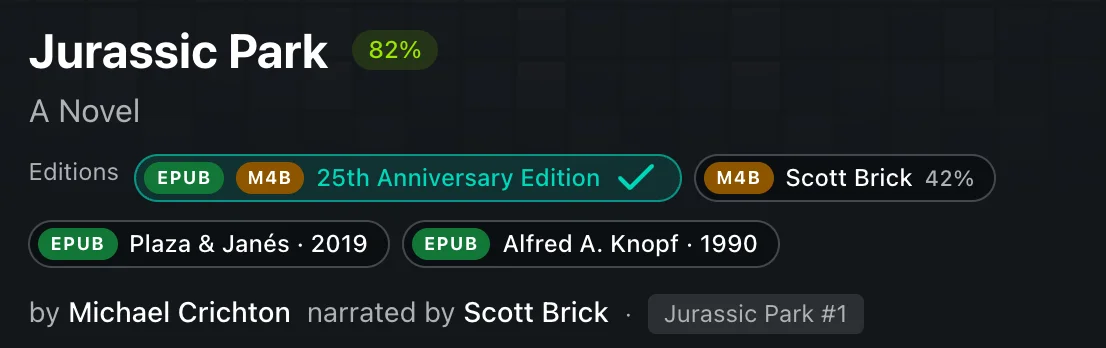
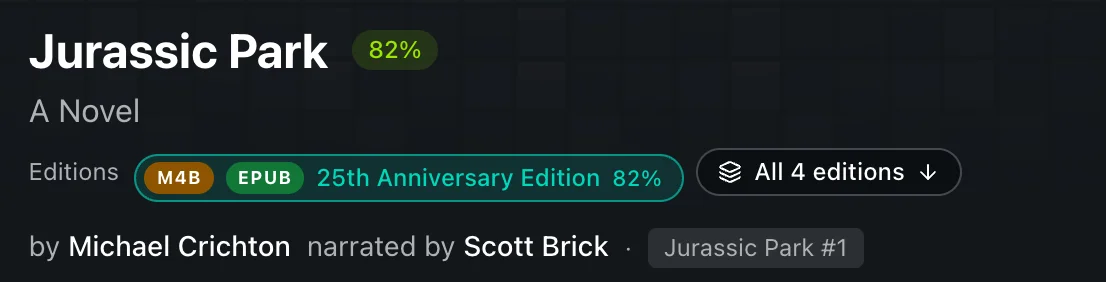
docs(book-editions): document suggested editions and the Editions tab
Describe the Suggested editions list in the Add edition sheet, with what each label means, and the
Editions tab table with its columns and row menu. Replace the strip text and screenshot with the
current-edition pill and its All editions button, and drop the search-only sheet screenshot.

Changed region(s): [[0.0307, 0.2837, 0.8915, 0.9645], [0.0307, 0.0851, 0.3996, 0.2553], [0.0307, 0.8227, 0.5533, 0.9362]]

diff --git a/src/content/docs/book-editions.md b/src/content/docs/book-editions.md
@@ -5,7 +5,7 @@ description: "Group the ebook, audiobook, translations and other printings of on
 
 You own *Jurassic Park* four times: the EPUB you read years ago, the Scott Brick audiobook in your audiobook library, the 1990 first printing and a Spanish translation. Without editions, the library shows four books, each with its own progress, and your statistics say you finished it twice when you read it and then listened to it.
 
-**Editions** group those records as one book. Each edition keeps its own page, files, metadata, cover and reading progress. Lists show the book once, the book page lists every edition under the title, and finished-book counts count the book once.
+**Editions** group those records as one book. Each edition keeps its own page, files, metadata, cover and reading progress. Lists show the book once, every edition's page lists all of them, and finished-book counts count the book once.
 
 :::note
 Editions need BookOrbit v3.10.0 or later. From v3.7.0, the same grouping is called **Link** (**Link with another book...**), and books linked there are editions after the update, with nothing to redo. The iPhone app shows editions once it is updated to a version that has them; an older app lists every edition as a book of its own.
@@ -23,18 +23,29 @@ An edition is a separate book record. A format is another file inside one record
 | The same edition in another file type, such as a MOBI beside the EPUB | Add the file to the book as a format |
 | Two records of the same edition that should become one | Merge them with **Merge with another book...** |
 
-A book's own files are listed in the **Formats** card on its page. Editions are listed under the title.
+A book's own files are listed in the **Formats** card on its page. Its editions are listed on the **Editions** tab further down.
 
 ---
 
 ## Group Editions
 
-<img src="/images/book-editions/group-as-editions-sheet.webp" alt="Editions of one book sheet with Japanese Gothic typed into Search all libraries, the audiobook from the Audiobooks library ticked, and the Group 2 editions button" class="img-lg img-bordered" />
+<img src="/images/book-editions/add-edition-suggestions.webp" alt="Editions of one book sheet for Japanese Gothic: under Suggested editions, the Natalie Naudus audiobook from the Audiobooks library is ticked and marked Other format and Same title and author, above the Group 2 editions button" class="img-lg img-bordered" />
 
 1. Open the page of one edition. It becomes the main edition.
-2. Open the **⋮** menu beside the reading buttons and choose **Add edition...**.
-3. Search all libraries by title or author, and tick the other editions.
+2. Open the **⋮** menu beside the reading buttons and choose **Add edition...**. On a book that already has editions, the **Add edition** button on its **Editions** tab does the same.
+3. Tick a book under **Suggested editions**, or search all libraries by title or author and tick it in the results.
 4. Click **Group 2 editions** (the count follows your choice).
+
+**Suggested editions** offers up to eight books from libraries you can edit that look like other editions of this one. Each is marked with what it is and why it matched:
+
+| Label | Meaning |
+|-------|---------|
+| **Other format** | The audiobook of an ebook, or the ebook of an audiobook. |
+| **Other edition** | Another ebook, or another audiobook, that differs in ISBN, Hardcover edition, narrator, publisher or year. |
+| **Same work on Hardcover or Open Library** | Both books match the same work on Hardcover or Open Library. |
+| **Same title and author** | Both books have the same title and share an author or narrator. |
+
+A book that matches both ways says **Same work, title and author**. Copies of the same edition are not suggested, and neither are pairs marked **Not editions** in [Duplicate Books](#find-editions-you-already-have).
 
 To group from a list, select the books, open **More actions** in the selection bar and choose **Group as editions...**. Select each book yourself: the action is not offered when the selection is every book matching a filter.
 
@@ -44,7 +55,7 @@ A few rules apply:
 - A group holds up to 10 editions, across any libraries.
 - Adding a book that already belongs to a group brings that whole group in, and its main edition stays the main one.
 
-To manage a group later, open any edition and use the **⋮** menu:
+To manage a group later, open any edition and use the **⋮** menu, or the **⋮** menu on a row of the [Editions tab](#compare-editions):
 
 | Action | What it does |
 |--------|--------------|
@@ -55,9 +66,9 @@ To manage a group later, open any edition and use the **⋮** menu:
 
 ## Switch Between Editions
 
-<img src="/images/book-editions/edition-strip.webp" alt="Jurassic Park book page with an Editions row under the title: the current 25th Anniversary Edition with EPUB and M4B badges and a check mark, Scott Brick's M4B at 42%, Plaza & Janés 2019 and Alfred A. Knopf 1990" class="img-lg img-bordered" />
+<img src="/images/book-editions/edition-strip.webp" alt="Jurassic Park book page with an Editions row under the title: the current 25th Anniversary Edition with M4B and EPUB badges at 82%, and an All 4 editions button" class="img-lg img-bordered" />
 
-Every edition's page shows an **Editions** row under the title. Each entry shows the edition's formats and its name, and your own progress in it: a percentage while you are reading, a check mark once you have finished. The edition you are on is highlighted. Click another to open its page.
+Every edition's page shows an **Editions** row under the title. It holds the edition you are on, with its formats, its name and your own progress in it: a percentage while you are reading, a check mark once you have finished. **All 4 editions** (the count follows the group) opens the **Editions** tab, which lists them all.
 
 BookOrbit names each edition with the first of these that it has:
 
@@ -68,7 +79,23 @@ BookOrbit names each edition with the first of these that it has:
 
 When two editions would get the same name, the library is added to both.
 
-The main edition comes first, then editions you have read, most recent first, then ebooks before audiobooks, newest first. The row shows four editions and a **+** button for the rest. You only see editions in libraries you have access to. An edition whose files are missing is marked with a warning sign.
+### Compare editions
+
+<img src="/images/book-editions/editions-table.webp" alt="Editions tab for Jurassic Park listing four editions: 25th Anniversary Edition marked Main and Viewing, reading at 82%; the Scott Brick audiobook at 42%; Plaza & Janés 2019, titled Parque Jurásico, not started; and Alfred A. Knopf 1990, not started" class="img-xl img-bordered" />
+
+On a book with editions, the **Editions** tab comes first among the tabs below the book's details. Each row is one edition:
+
+| Column | What it shows |
+|--------|---------------|
+| **Edition** | The edition's name and library. **Main** marks the main edition and **Viewing** the page you are on. When an edition's title differs, such as a translation, its title is shown beside the library. |
+| **Format** | The edition's file formats. |
+| **Published** | Its year and publisher. |
+| **Narrated by** | Its narrators, for an audiobook. |
+| **Your reading** | Your percentage while you are reading, **Finished** with the month you finished, or **Not started**. An edition whose files are missing says **Files missing**. |
+
+Click a row to open that edition. Its **⋮** menu has **Open edition**, **Make main edition** and **Remove from editions**, as your permissions allow. On a narrow screen, each row shows the name, formats, year and your progress.
+
+The main edition comes first, then editions you have read, most recent first, then ebooks before audiobooks, newest first. You only see editions in libraries you have access to.
 
 ---
 
